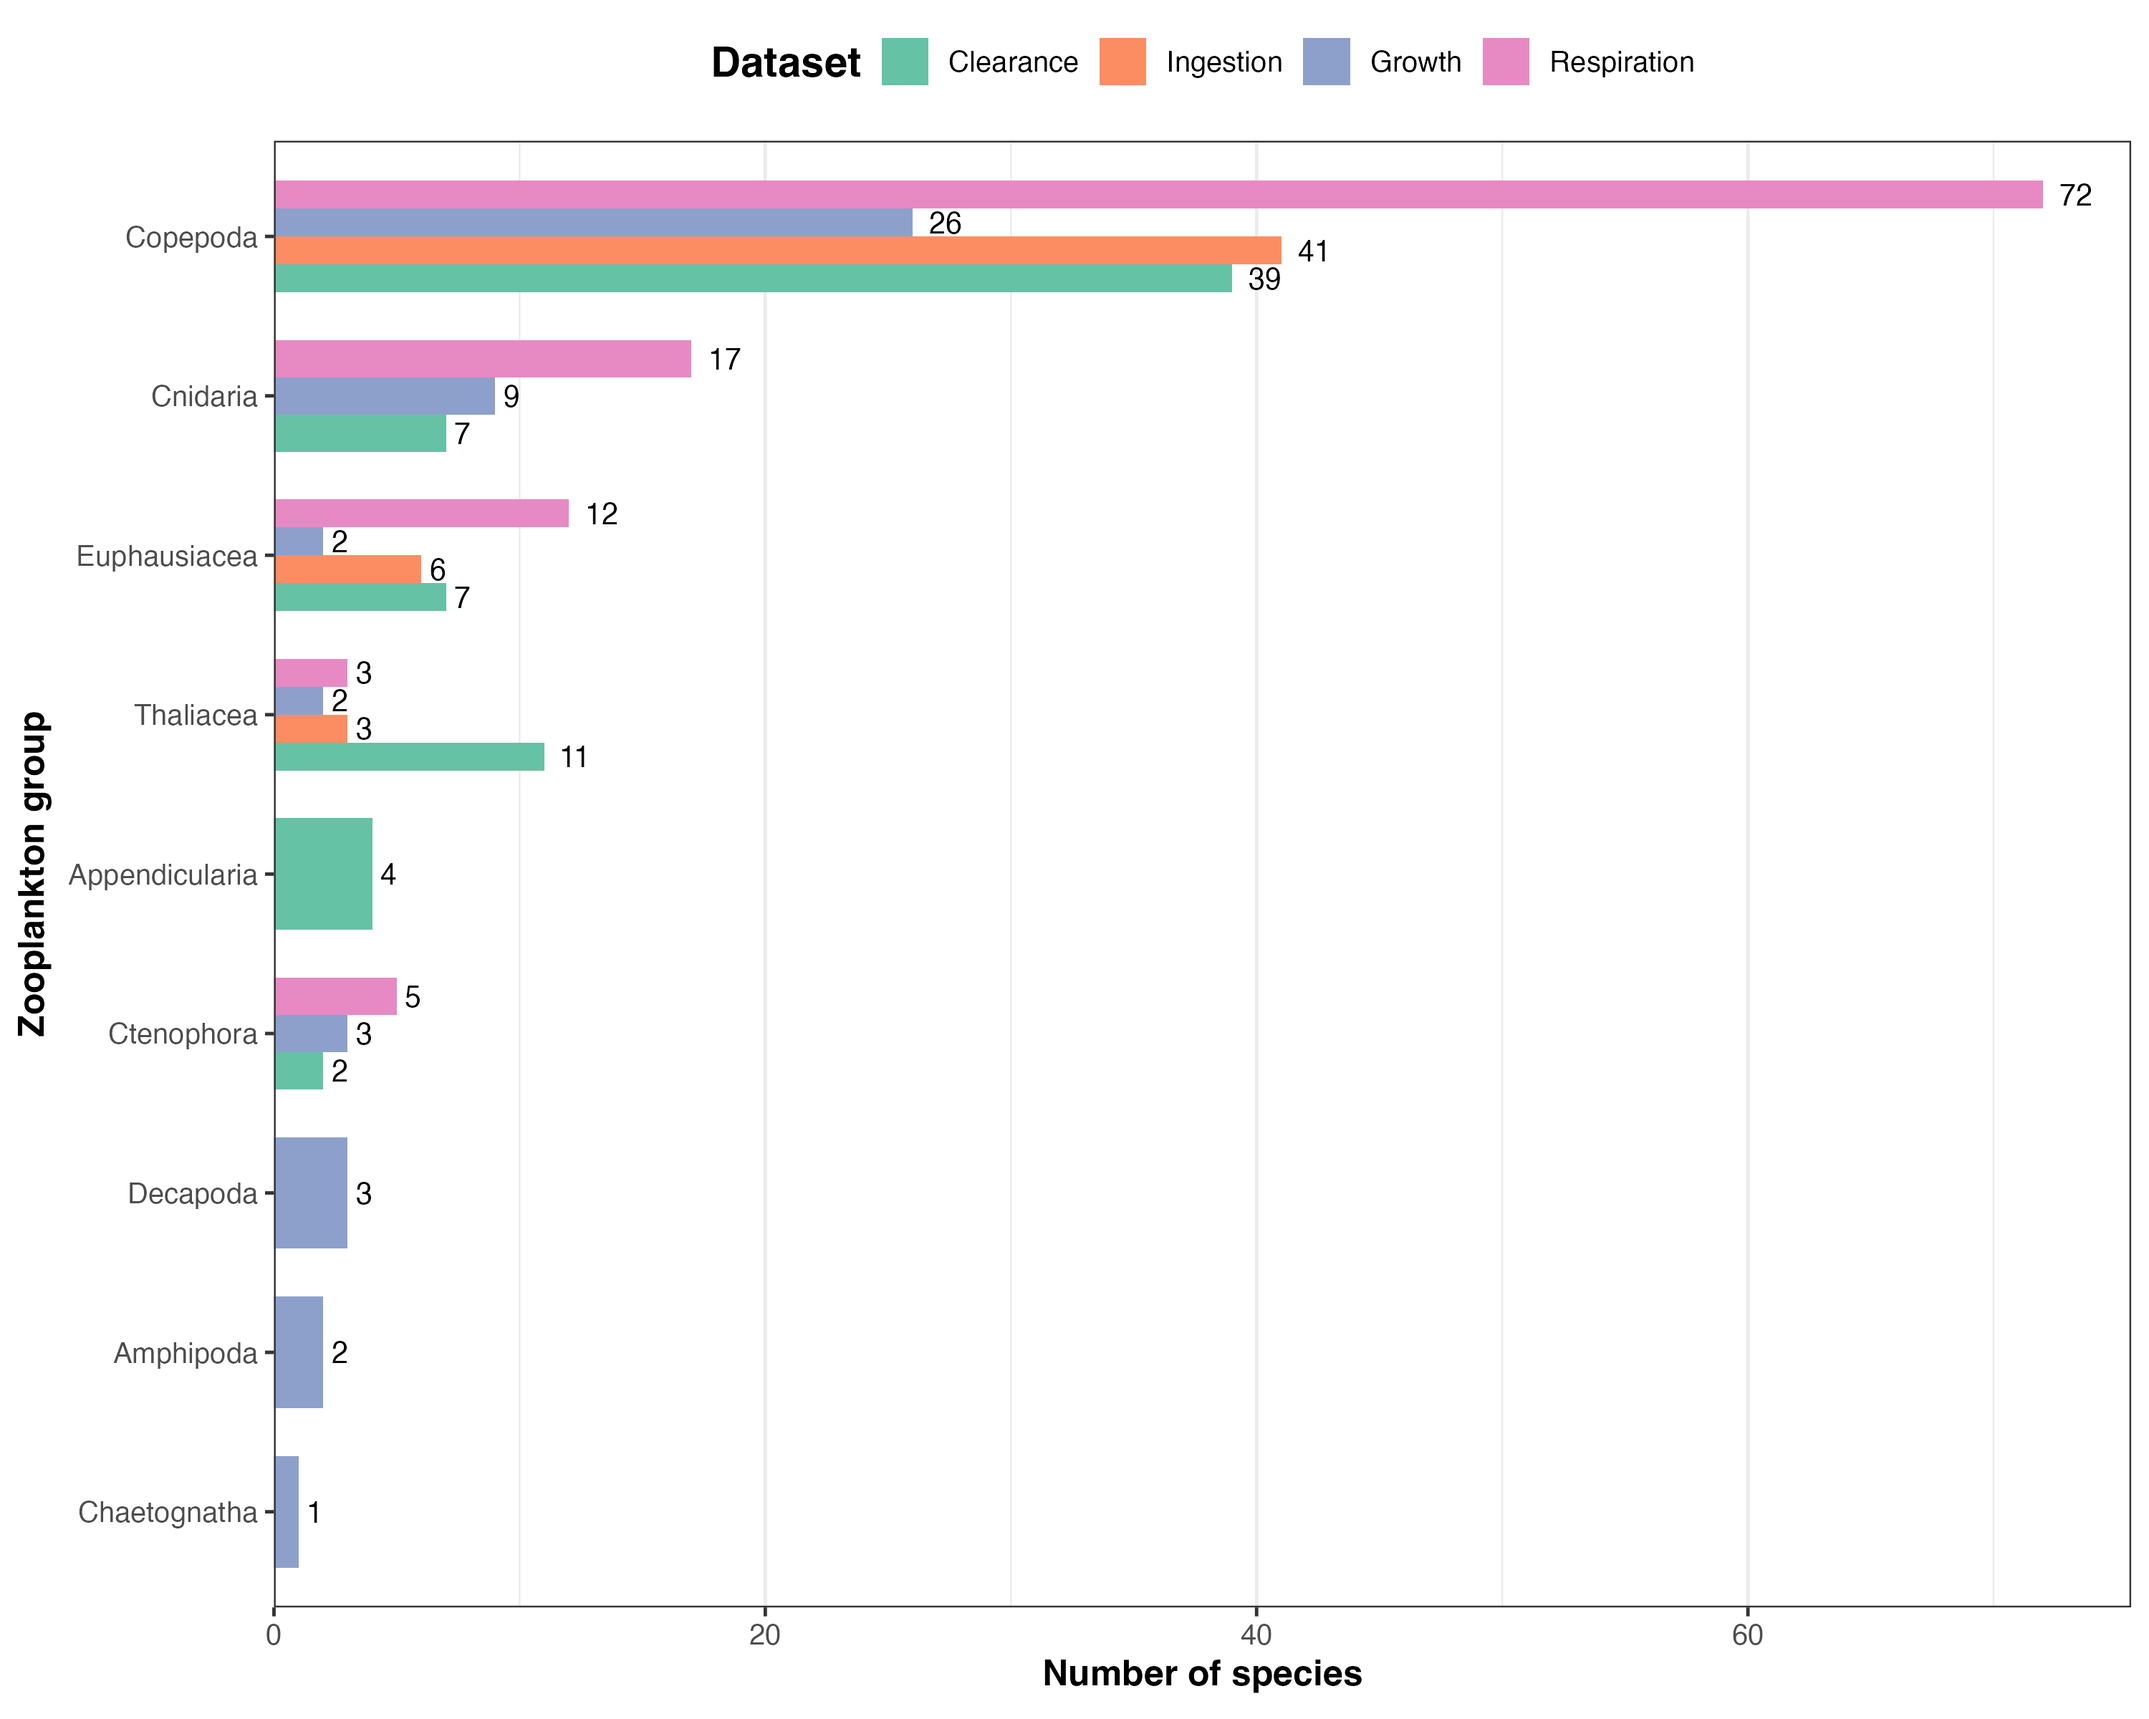
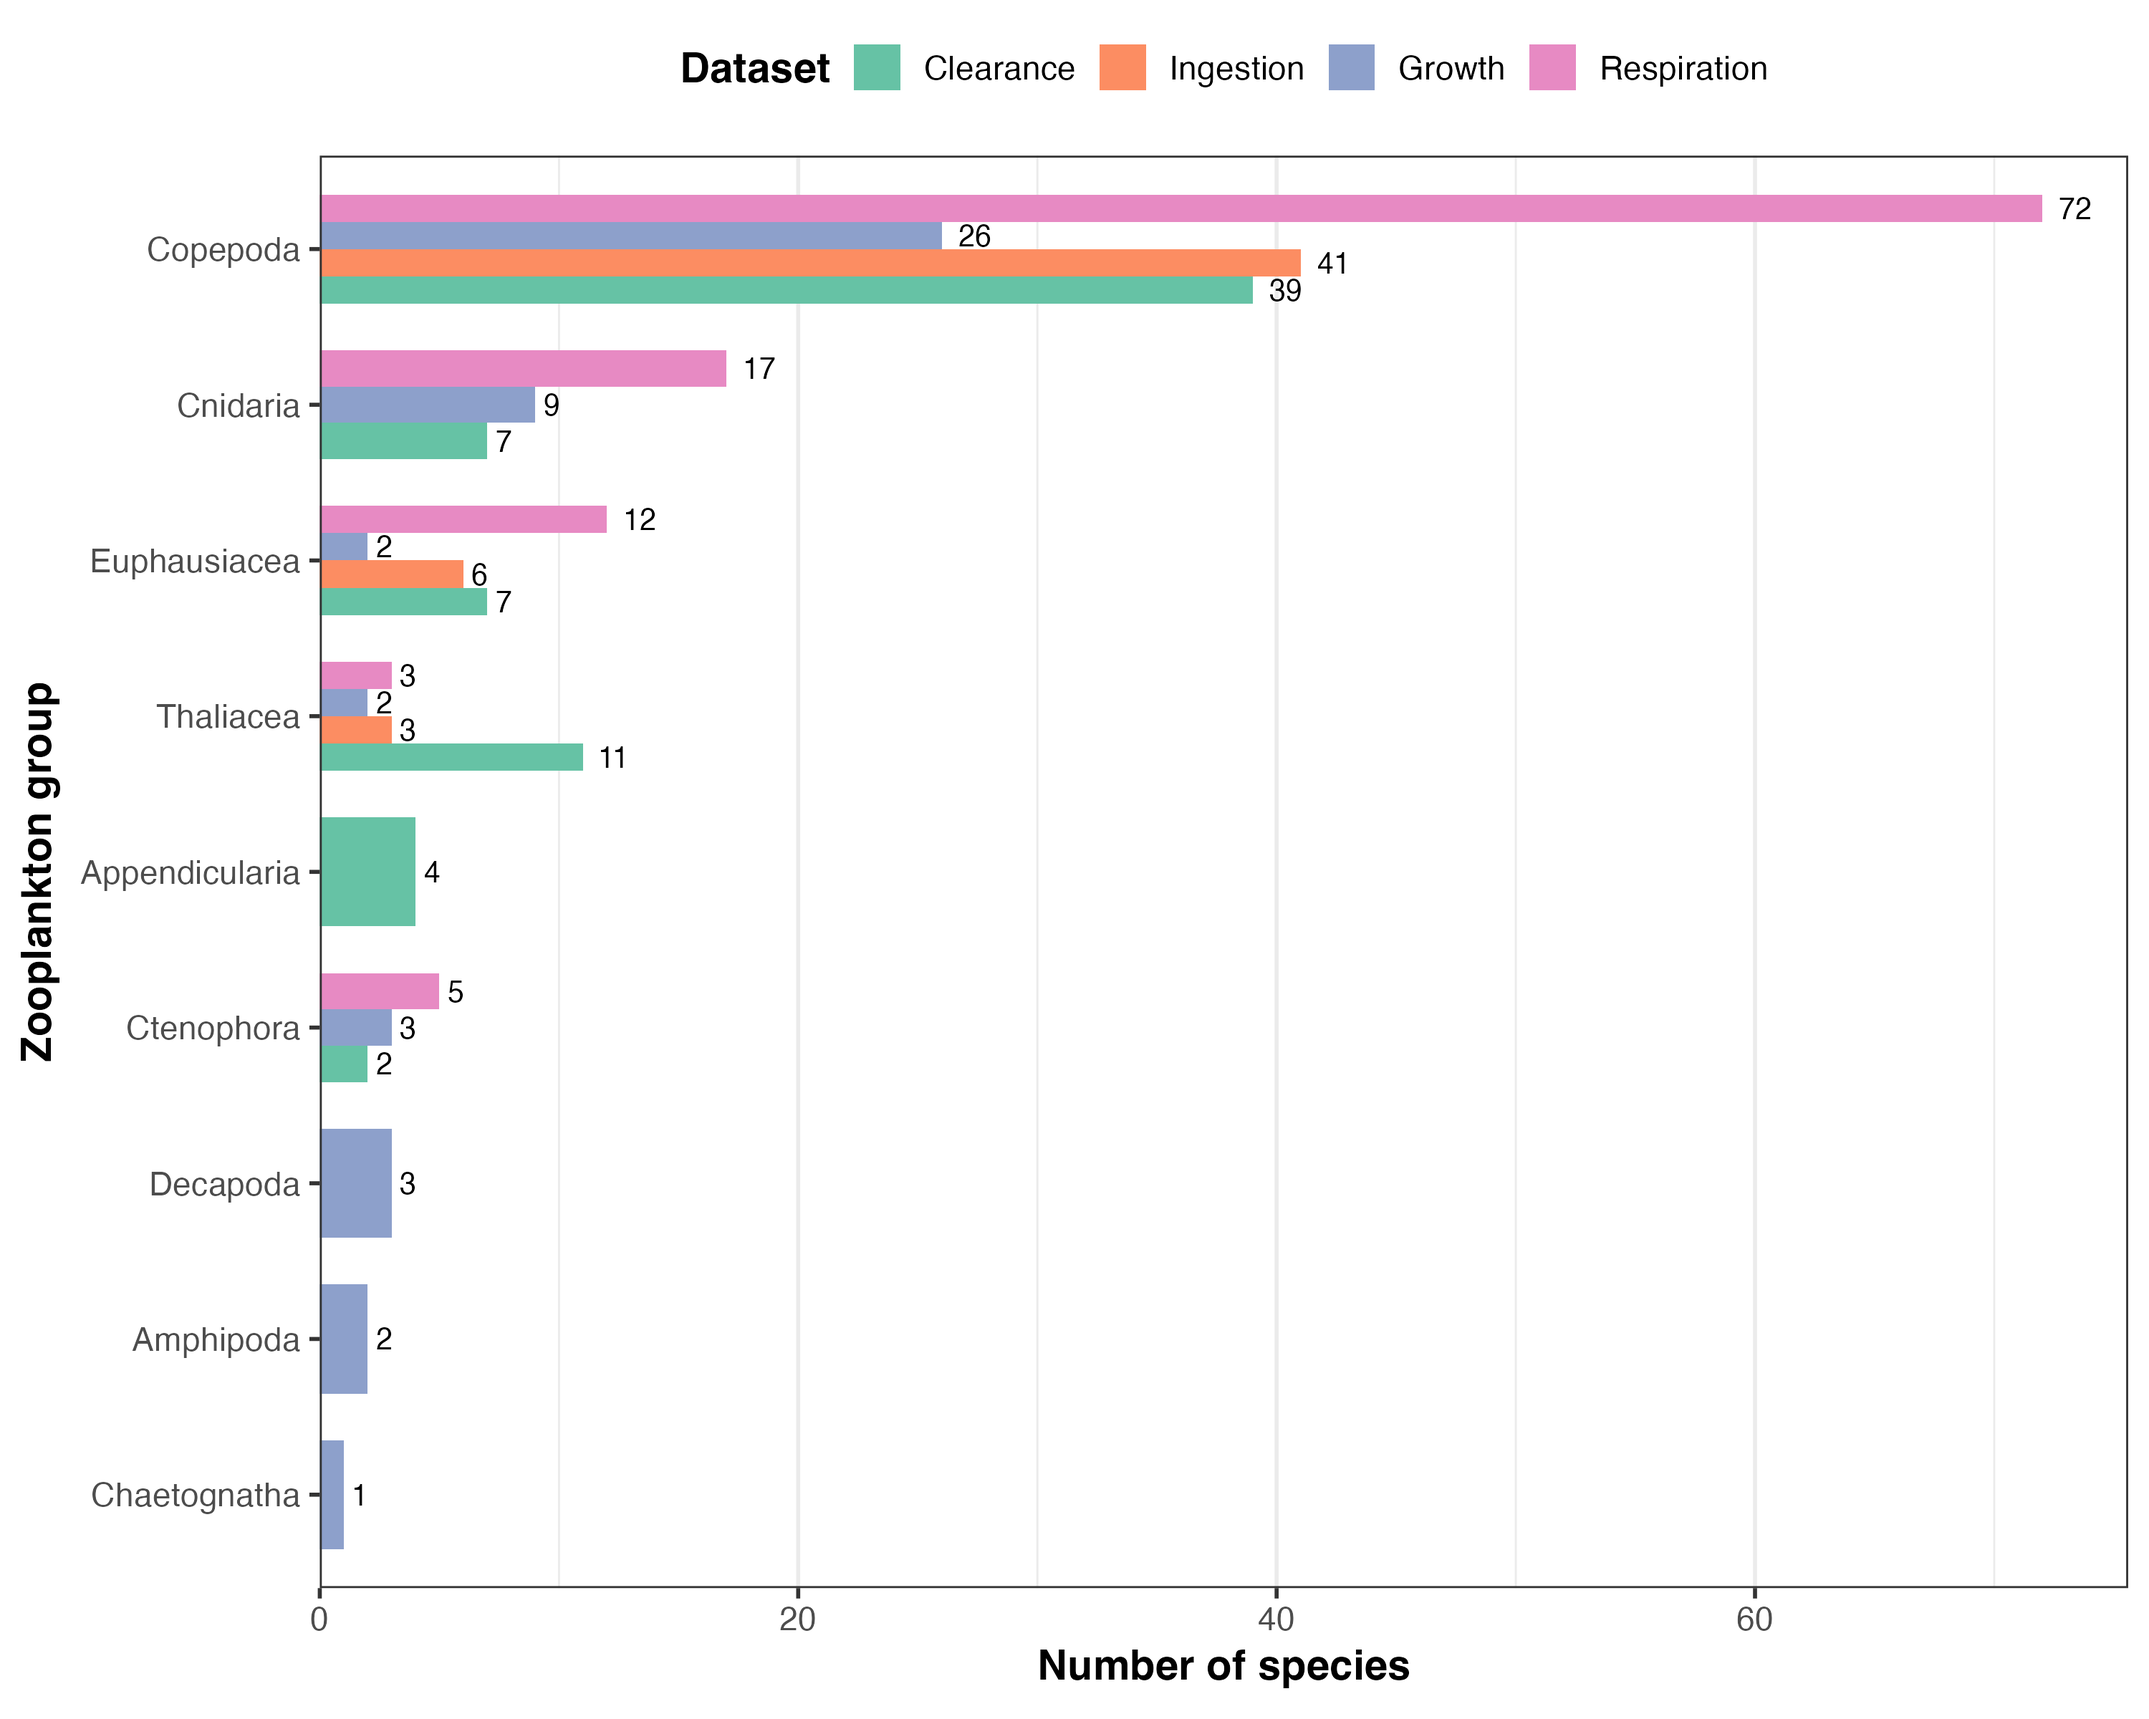
Update analysis scripts and output figures/tables
Refactored and clarified R helper and analysis scripts for improved readability and consistency, including enhanced documentation and table formatting. Updated output figures and tables, added Output/Table_S1.png, and made minor corrections to README and plotting scripts for accuracy and clarity.

diff --git a/README.md b/README.md
@@ -11,7 +11,7 @@ The rate process data for this project consists of respiration, ingestion and cl
 Here we save data files such as RDS and/or small csv files. Other data used in the analysis are provided via web links.
 
 | Files | Description |
-|------------------|------------------------------------------------------|
+|-------------------|-----------------------------------------------------|
 | xyz_data.rds | These data files are cleaned rate process and Q10 data. |
 | Q10_estimates_xyz.rds | These files are Q10 estimate output generated using bootstrap models. |
 | Q10_summary_xyz.rds | These files are Q10 summaries which include Q10 estimates and confidence intervals which are estimated using the bootstrap models output. |
@@ -45,7 +45,7 @@ This folder contains all .R scripts that are used to perform data cleaning and a
 
 -   **1.5_assess_taxonomic_coverage:** This script is a work in progress... but is planned to read all datasets in, subset by taxa and perform a taxonomic coverage assessment to resolve zooplankton species bias across rates and zooplankton groups.
 
--   **2_mapping_the_experiments:** First, this script loads all rate process datasets and historic Q~10~ data. Reads in shapefiles using the *rnaturalearth* package. Converts compiled data lat/lon's to sf for plotting. Finally, generates a series of maps to illustrate the distribution of rate processes and historic temperature dependence data across the Earth.
+-   **2_mapping_the_experiments:** First, this script loads all rate process datasets and historic Q~10~ data. Reads in shapefiles using the *rnaturalearth* package. Converts compiled data lat/lon's to sf for plotting. Finally, generates a series of maps to illustrate the distribution of rate processes and historic temperature dependence data across Earth.
 
 -   **3_table1_historicQ10_data**: This script summarises the compiled historic Q~10~ values for zooplankton and reports them in a table using the *gt* package.
 
@@ -61,13 +61,15 @@ This folder contains all .R scripts that are used to perform data cleaning and a
 
     -   Fifth, we estimate the 95% confidence intervals for Q~10~ estimates using coefficients from the boostrap models output.
 
-    -   Finally, we plot the results in a dot plot and violin plot to illustrate median Q~10~ (95% confidence intervals) and the variance of mass-specific clearance rate for each zooplankton group. We then generate inverse Arrhenius plots to illustrate the relationship between temperature and carbon mass-specific clearance rates for each zooplankton group available.
+    -   Finally, we save the data for a final visualisation and then generate inverse Arrhenius plots to illustrate the relationship between temperature and carbon mass-specific clearance rates for each zooplankton group available.
 
 -   **5_Q10_models_Ingestion:** This script follows the same workflow as script 4, but for ingestion rate.
 
 -   **6_Q10_models_Growth:** This script follows the same workflow as script 4, but for growth rate.
 
 -   **7_Q10_models_Respiration:** This script follows the same workflow as script 4, but for respiration.
+
+-   **8_figure2_Q10_plots.R:** This script combines all Q10 data for each rate and generates dot plots to illustrate median Q~10~ (95% confidence intervals) for each zooplankton group with available data.
 
 ## Output
 
